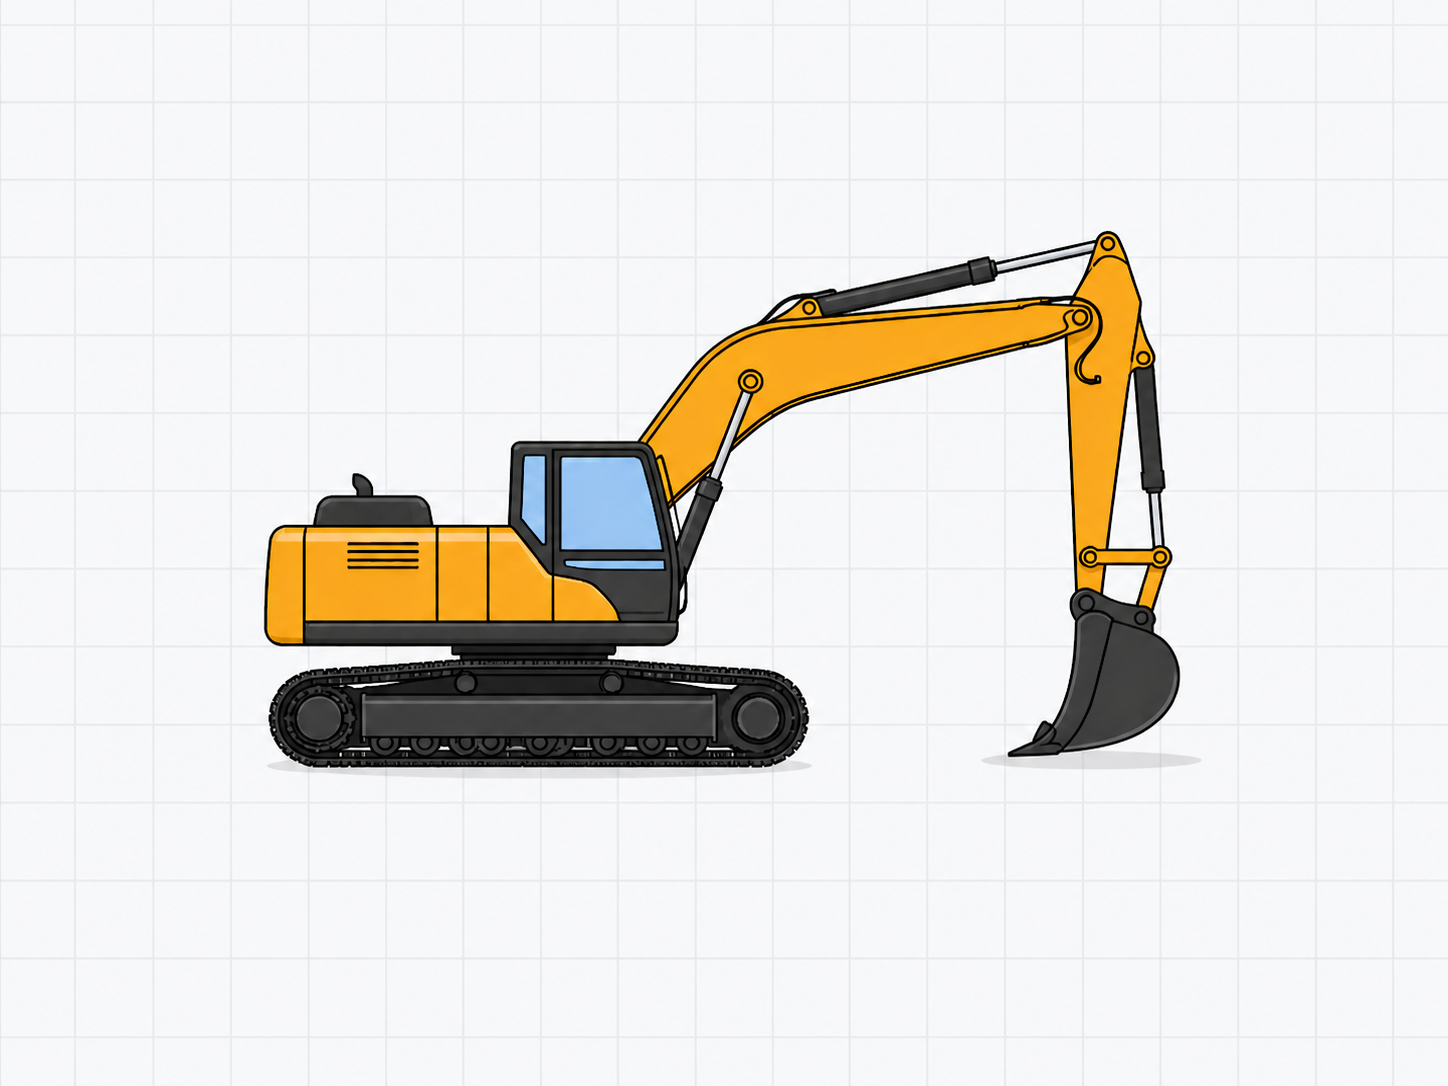
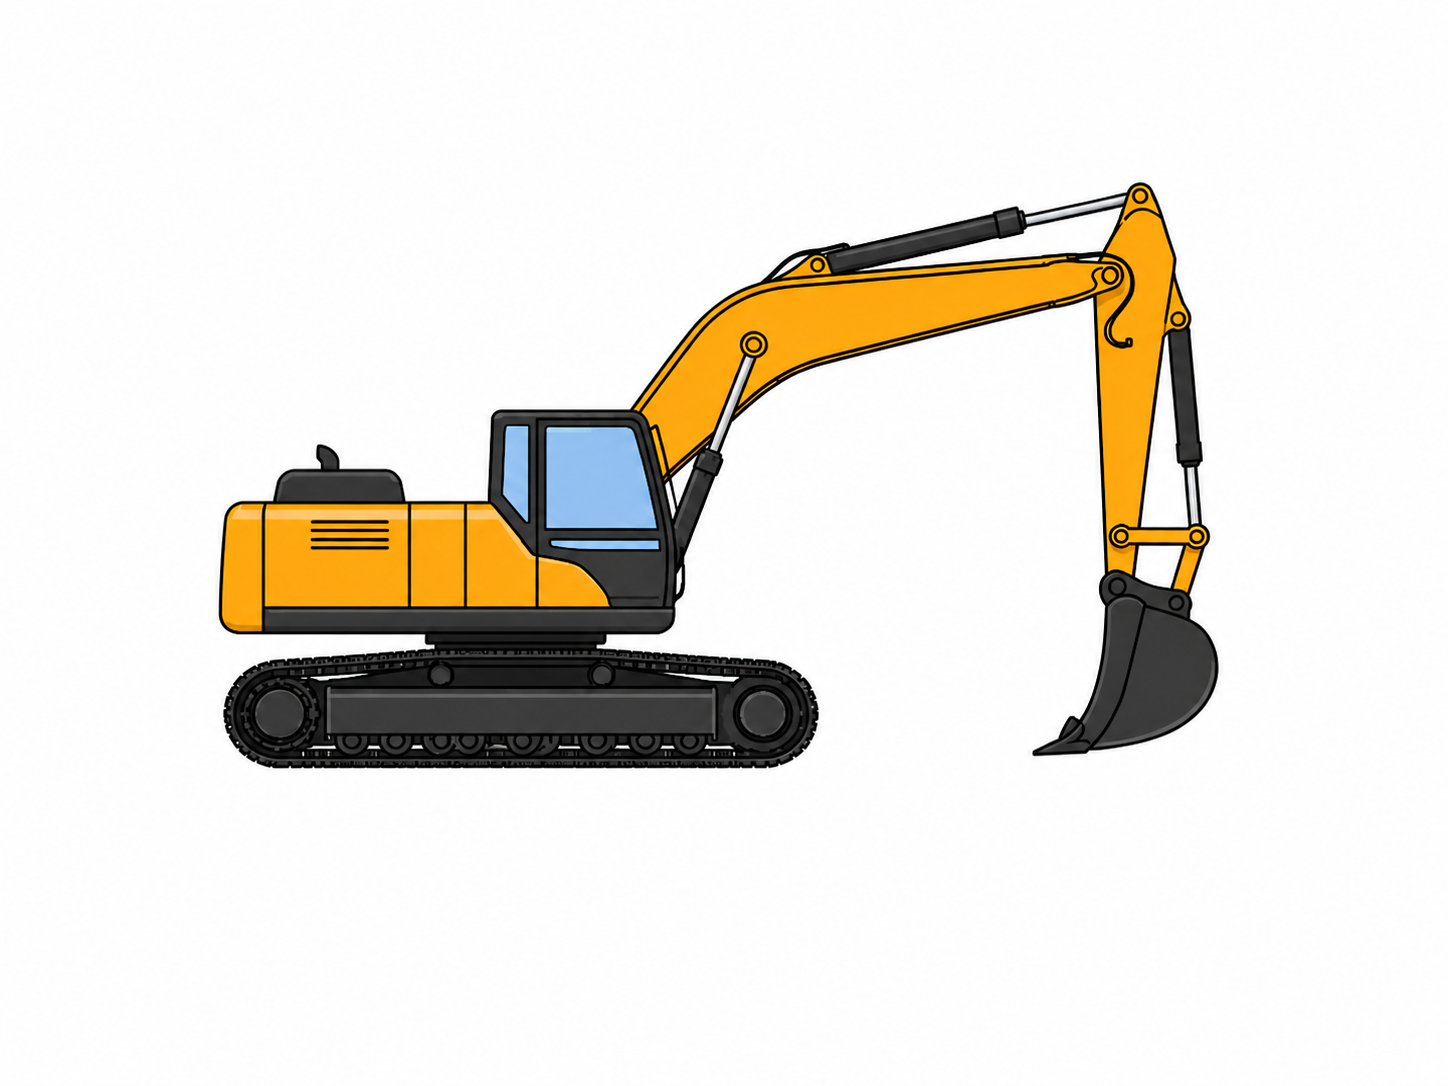
Skisse: PNG for gravemaskin/lastebil i plan, oppdaterte symbol; UI-rydding

Changed region(s): [[0.1243, 0.1519, 0.8391, 0.7293]]

diff --git a/components/sketches/TrenchPlanner.tsx b/components/sketches/TrenchPlanner.tsx
@@ -3,7 +3,16 @@
 import { useEffect, useMemo, useRef, useState, type ReactNode } from "react";
 import { Button } from "@/components/ui/button";
 import { CanvasObject, type CanvasObjectData } from "@/components/sketches/planner/CanvasObject";
-import { EXCAVATOR_SIDE_PNG, type ObjectType } from "@/components/sketches/planner/AssetIcons";
+import {
+  EXCAVATOR_SIDE_ASPECT,
+  EXCAVATOR_SIDE_LIGHT_BG_KNOCKOUT,
+  EXCAVATOR_SIDE_PNG,
+  EXCAVATOR_SIDE_PRESET_HEIGHT,
+  EXCAVATOR_SIDE_PRESET_WIDTH,
+  EXCAVATOR_TOP_PNG,
+  TRUCK_TOP_PNG,
+  type ObjectType
+} from "@/components/sketches/planner/AssetIcons";
 import { MeasurementLine, type MeasurementView } from "@/components/sketches/planner/MeasurementLine";
 import { ObjectToolbar } from "@/components/sketches/planner/ObjectToolbar";
 import { useCanvasHistory } from "@/components/sketches/planner/useCanvasHistory";
@@ -16,6 +25,13 @@ import {
 } from "@/components/sketches/planner/trenchCrossGeometry";
 
 type TabKey = "cross" | "plan";
+
+const EXCAVATOR_TOP_PRESET_WIDTH = 160;
+const EXCAVATOR_TOP_PRESET_HEIGHT = 340;
+const EXCAVATOR_TOP_ASPECT = EXCAVATOR_TOP_PRESET_HEIGHT / EXCAVATOR_TOP_PRESET_WIDTH;
+const TRUCK_TOP_PRESET_WIDTH = 520;
+const TRUCK_TOP_PRESET_HEIGHT = 130;
+const TRUCK_TOP_ASPECT = TRUCK_TOP_PRESET_HEIGHT / TRUCK_TOP_PRESET_WIDTH;
 /** Justering av grøftevegg: V = venstre, H = høyre, begge = V + H */
 type TrenchWallEditScope = "begge" | "venstre" | "hoyre";
 type Selection = { kind: "object" | "measurement"; id: string } | null;
@@ -70,9 +86,9 @@ const presets: Record<ObjectType, Omit<CanvasObjectData, "id" | "x" | "y" | "rot
     meta: { slopeAngleLeftDeg: 45, slopeAngleRightDeg: 45 }
   }, // ca 10 m toppbredde, 4 m dybde
   trenchPlan: { type: "trenchPlan", width: 750, height: 130 }, // 15 m lengde, 2.6 m korridor
-  excavatorSide: { type: "excavatorSide", width: 575, height: 250 }, // 11,5 × 5 m (1 rute = 1 m)
-  excavatorTop: { type: "excavatorTop", width: 160, height: 340 }, // ca 3.2 x 6.8 m
-  truckTop: { type: "truckTop", width: 520, height: 130 }, // ca 10.4 x 2.6 m
+  excavatorSide: { type: "excavatorSide", width: EXCAVATOR_SIDE_PRESET_WIDTH, height: EXCAVATOR_SIDE_PRESET_HEIGHT },
+  excavatorTop: { type: "excavatorTop", width: EXCAVATOR_TOP_PRESET_WIDTH, height: EXCAVATOR_TOP_PRESET_HEIGHT },
+  truckTop: { type: "truckTop", width: TRUCK_TOP_PRESET_WIDTH, height: TRUCK_TOP_PRESET_HEIGHT },
   spoilPile: { type: "spoilPile", width: 260, height: 120 },
   spoilPileLong: { type: "spoilPileLong", width: 360, height: 90 },
   ladder: { type: "ladder", width: 60, height: 220 },
@@ -215,7 +231,11 @@ function resolveMeasurements(state: CanvasState): MeasurementView[] {
 
 function buildPrintableSvg(state: CanvasState, assetOrigin = "") {
   const measurements = resolveMeasurements(state);
-  const excavatorImgSrc = `${assetOrigin}${EXCAVATOR_SIDE_PNG}`;
+  const excavatorSideImgSrc = `${assetOrigin}${EXCAVATOR_SIDE_PNG}`;
+  const excavatorTopImgSrc = `${assetOrigin}${EXCAVATOR_TOP_PNG}`;
+  const truckTopImgSrc = `${assetOrigin}${TRUCK_TOP_PNG}`;
+  const rasterKnockoutId = `raster-print-knock-${Math.random().toString(36).slice(2, 10)}`;
+  const rasterKnockoutValues = `1 0 0 0 0  0 1 0 0 0  0 0 1 0 0  -1 -1 -1 0 ${EXCAVATOR_SIDE_LIGHT_BG_KNOCKOUT}`;
   const printObject = (o: CanvasObjectData) => {
     switch (o.type) {
       case "trenchCross": {
@@ -237,16 +257,11 @@ function buildPrintableSvg(state: CanvasState, assetOrigin = "") {
                 ${markerLines}`;
       }
       case "excavatorSide":
-        return `<image href="${excavatorImgSrc}" xlink:href="${excavatorImgSrc}" x="${o.x}" y="${o.y}" width="${o.width}" height="${o.height}" preserveAspectRatio="xMidYMid meet" />`;
+        return `<image href="${excavatorSideImgSrc}" xlink:href="${excavatorSideImgSrc}" filter="url(#${rasterKnockoutId})" x="${o.x}" y="${o.y}" width="${o.width}" height="${o.height}" preserveAspectRatio="xMidYMid meet" />`;
       case "excavatorTop":
-        return `<rect x="${o.x + o.width * 0.04}" y="${o.y + o.height * 0.08}" width="${o.width * 0.2}" height="${o.height * 0.84}" fill="#111827" />
-                <rect x="${o.x + o.width * 0.62}" y="${o.y + o.height * 0.08}" width="${o.width * 0.2}" height="${o.height * 0.84}" fill="#111827" />
-                <rect x="${o.x + o.width * 0.24}" y="${o.y + o.height * 0.18}" width="${o.width * 0.42}" height="${o.height * 0.64}" fill="#f59e0b" stroke="#111827" stroke-width="2" />
-                <line x1="${o.x + o.width * 0.28}" y1="${o.y + o.height * 0.28}" x2="${o.x + o.width * 0.6}" y2="${o.y + o.height * 0.28}" stroke="#fff" stroke-width="1.7" />`;
+        return `<image href="${excavatorTopImgSrc}" xlink:href="${excavatorTopImgSrc}" filter="url(#${rasterKnockoutId})" x="${o.x}" y="${o.y}" width="${o.width}" height="${o.height}" preserveAspectRatio="xMidYMid meet" />`;
       case "truckTop":
-        return `<rect x="${o.x}" y="${o.y + o.height * 0.16}" width="${o.width * 0.68}" height="${o.height * 0.68}" fill="#60a5fa" stroke="#111827" stroke-width="2" />
-                <rect x="${o.x + o.width * 0.7}" y="${o.y + o.height * 0.24}" width="${o.width * 0.24}" height="${o.height * 0.52}" fill="#fb923c" stroke="#7c2d12" stroke-width="2" />
-                <line x1="${o.x + o.width * 0.04}" y1="${o.y + o.height * 0.26}" x2="${o.x + o.width * 0.62}" y2="${o.y + o.height * 0.26}" stroke="#fff" stroke-width="1.6" />`;
+        return `<image href="${truckTopImgSrc}" xlink:href="${truckTopImgSrc}" filter="url(#${rasterKnockoutId})" x="${o.x}" y="${o.y}" width="${o.width}" height="${o.height}" preserveAspectRatio="xMidYMid meet" />`;
       case "spoilPile":
         return `<ellipse cx="${o.x + o.width / 2}" cy="${o.y + o.height * 0.72}" rx="${o.width * 0.48}" ry="${o.height * 0.3}" fill="#b08968" stroke="#3f3f46" stroke-width="2" />
                 <ellipse cx="${o.x + o.width / 2}" cy="${o.y + o.height * 0.62}" rx="${o.width * 0.35}" ry="${o.height * 0.16}" fill="#ffffff33" />`;
@@ -309,6 +324,11 @@ function buildPrintableSvg(state: CanvasState, assetOrigin = "") {
 
   return `
     <svg xmlns="http://www.w3.org/2000/svg" xmlns:xlink="http://www.w3.org/1999/xlink" viewBox="0 0 ${VIEW_W} ${VIEW_H}" width="100%" style="border:1px solid #cbd5e1;border-radius:8px;background:#f8fafc;">
+      <defs>
+        <filter id="${rasterKnockoutId}" x="0" y="0" width="100%" height="100%" color-interpolation-filters="sRGB">
+          <feColorMatrix in="SourceGraphic" type="matrix" values="${rasterKnockoutValues}" />
+        </filter>
+      </defs>
       ${gridMarkup}
       ${objectMarkup}
       ${measurementMarkup}
@@ -606,20 +626,6 @@ export function TrenchPlanner() {
     }));
   };
 
-  const reorderSelected = (dir: "backward" | "forward") => {
-    if (!selectedObject) return;
-    setCurrent((prev) => {
-      const idx = prev.objects.findIndex((o) => o.id === selectedObject.id);
-      if (idx < 0) return prev;
-      const target = dir === "forward" ? idx + 1 : idx - 1;
-      if (target < 0 || target >= prev.objects.length) return prev;
-      const list = [...prev.objects];
-      const [item] = list.splice(idx, 1);
-      list.splice(target, 0, item);
-      return { ...prev, objects: list };
-    });
-  };
-
   const clearActiveCanvas = () => {
     if (!window.confirm("Er du sikker på at du vil tømme aktiv arbeidsflate?")) return;
     setCurrent({ objects: [], measurements: [] });
@@ -646,6 +652,8 @@ export function TrenchPlanner() {
   const showSafetyMeasures = activeTab === "cross" && trenchDepthMeters > 2;
   const selectedPlanTrench = selectedObject?.type === "trenchPlan" ? current.present.objects.find((o) => o.id === selectedObject.id) : null;
   const selectedSpoilLong = selectedObject?.type === "spoilPileLong" ? current.present.objects.find((o) => o.id === selectedObject.id) : null;
+  const selectedExcavatorTop = selectedObject?.type === "excavatorTop" ? current.present.objects.find((o) => o.id === selectedObject.id) : null;
+  const selectedTruckTop = selectedObject?.type === "truckTop" ? current.present.objects.find((o) => o.id === selectedObject.id) : null;
 
   const patchTrenchWallAnglesFor = (objectId: string, patch: { leftDeg?: number; rightDeg?: number }) => {
     setCurrent((prev) => {
@@ -681,6 +689,51 @@ export function TrenchPlanner() {
         if (o.id !== selectedObject.id) return o;
         const center = o.x + o.width / 2;
         return { ...o, width: nextWidth, x: center - nextWidth / 2 };
+      })
+    }));
+  };
+
+  const updateExcavatorSideWidth = (width: number) => {
+    if (!selectedObject || selectedObject.type !== "excavatorSide") return;
+    const nextW = Math.max(180, Math.min(1400, Math.round(width / 5) * 5));
+    const nextH = Math.round(nextW * EXCAVATOR_SIDE_ASPECT);
+    setCurrent((prev) => ({
+      ...prev,
+      objects: prev.objects.map((o) => {
+        if (o.id !== selectedObject.id) return o;
+        const cx = o.x + o.width / 2;
+        const cy = o.y + o.height / 2;
+        return { ...o, width: nextW, height: nextH, x: cx - nextW / 2, y: cy - nextH / 2 };
+      })
+    }));
+  };
+
+  const updateExcavatorTopWidth = (width: number) => {
+    if (!selectedObject || selectedObject.type !== "excavatorTop") return;
+    const nextW = Math.max(80, Math.min(420, Math.round(width / 5) * 5));
+    const nextH = Math.round(nextW * EXCAVATOR_TOP_ASPECT);
+    setCurrent((prev) => ({
+      ...prev,
+      objects: prev.objects.map((o) => {
+        if (o.id !== selectedObject.id) return o;
+        const cx = o.x + o.width / 2;
+        const cy = o.y + o.height / 2;
+        return { ...o, width: nextW, height: nextH, x: cx - nextW / 2, y: cy - nextH / 2 };
+      })
+    }));
+  };
+
+  const updateTruckTopWidth = (width: number) => {
+    if (!selectedObject || selectedObject.type !== "truckTop") return;
+    const nextW = Math.max(200, Math.min(900, Math.round(width / 5) * 5));
+    const nextH = Math.round(nextW * TRUCK_TOP_ASPECT);
+    setCurrent((prev) => ({
+      ...prev,
+      objects: prev.objects.map((o) => {
+        if (o.id !== selectedObject.id) return o;
+        const cx = o.x + o.width / 2;
+        const cy = o.y + o.height / 2;
+        return { ...o, width: nextW, height: nextH, x: cx - nextW / 2, y: cy - nextH / 2 };
       })
     }));
   };
@@ -1059,8 +1112,27 @@ export function TrenchPlanner() {
             <>
               <p className="text-xs text-slate-600">
                 Vel eit symbol og trykk <strong>Innstillingar</strong> på verktøylinja over symbolet for grøfteveggar (V/H),{" "}
-                <strong>helning</strong> på stige, og <strong>bredde</strong> på spunt eller grøftekasse. Kvar stige og kvar grøft har eigne verdiar.
+                <strong>helning</strong> på stige, og <strong>bredde</strong> på spunt eller grøftekasse. Kvar stige og kvar grøft har eigne verdiar.{" "}
+                <strong>Skalering</strong> av gravemaskin (side) finn du under når maskina er valt.
               </p>
+              {selectedObject?.type === "excavatorSide" && (
+                <div className="space-y-2 rounded-md border border-slate-200 bg-slate-50 p-2">
+                  <div className="text-xs font-medium text-slate-800">Gravemaskin (side) – skalering</div>
+                  <input
+                    type="range"
+                    min={180}
+                    max={1400}
+                    step={5}
+                    value={selectedObject.width}
+                    onChange={(e) => updateExcavatorSideWidth(Number(e.target.value))}
+                    className="w-full"
+                  />
+                  <div className="text-[11px] text-slate-600">
+                    {(selectedObject.width / GRID_UNIT).toFixed(1).replace(".", ",")} m ×{" "}
+                    {(selectedObject.height / GRID_UNIT).toFixed(1).replace(".", ",")} m (proporsjonar bevarte)
+                  </div>
+                </div>
+              )}
               {showSafetyMeasures && (
                 <div className="rounded-md border border-amber-300 bg-amber-50 p-2 text-xs text-amber-900">
                   Grøftedybde over 2,0 m: vurder spunt eller grøftekasse.
@@ -1108,6 +1180,42 @@ export function TrenchPlanner() {
                     className="w-full"
                   />
                   <div className="text-xs text-slate-600">{(selectedSpoilLong.width / GRID_UNIT).toFixed(1).replace(".", ",")} m</div>
+                </div>
+              )}
+              {selectedExcavatorTop && (
+                <div className="space-y-2 rounded-md border border-slate-200 bg-slate-50 p-2">
+                  <div className="text-xs font-medium text-slate-800">Gravemaskin (ovenfra) – skalering</div>
+                  <input
+                    type="range"
+                    min={80}
+                    max={420}
+                    step={5}
+                    value={selectedExcavatorTop.width}
+                    onChange={(e) => updateExcavatorTopWidth(Number(e.target.value))}
+                    className="w-full"
+                  />
+                  <div className="text-[11px] text-slate-600">
+                    {(selectedExcavatorTop.width / GRID_UNIT).toFixed(1).replace(".", ",")} m ×{" "}
+                    {(selectedExcavatorTop.height / GRID_UNIT).toFixed(1).replace(".", ",")} m (proporsjonar bevarte)
+                  </div>
+                </div>
+              )}
+              {selectedTruckTop && (
+                <div className="space-y-2 rounded-md border border-slate-200 bg-slate-50 p-2">
+                  <div className="text-xs font-medium text-slate-800">Lastebil (ovenfra) – skalering</div>
+                  <input
+                    type="range"
+                    min={200}
+                    max={900}
+                    step={5}
+                    value={selectedTruckTop.width}
+                    onChange={(e) => updateTruckTopWidth(Number(e.target.value))}
+                    className="w-full"
+                  />
+                  <div className="text-[11px] text-slate-600">
+                    {(selectedTruckTop.width / GRID_UNIT).toFixed(1).replace(".", ",")} m ×{" "}
+                    {(selectedTruckTop.height / GRID_UNIT).toFixed(1).replace(".", ",")} m (proporsjonar bevarte)
+                  </div>
                 </div>
               )}
               <div className="text-xs text-slate-500">Tips: velg et grøfte- eller masse-symbol for å justere det spesifikke objektet når du har flere.</div>
@@ -1169,8 +1277,6 @@ export function TrenchPlanner() {
               onDelete={deleteSelected}
               onDuplicate={duplicateSelected}
               onRotate={rotateSelected}
-              onSendBackward={() => reorderSelected("backward")}
-              onBringForward={() => reorderSelected("forward")}
               rotateLabel={activeTab === "cross" && selectedObject?.type === "excavatorSide" ? "Speilvend" : "Roter 90°"}
               menu={activeTab === "cross" ? renderSymbolSettingsMenu() : undefined}
             />

diff --git a/components/sketches/planner/AssetIcons.tsx b/components/sketches/planner/AssetIcons.tsx
@@ -1,6 +1,7 @@
 "use client";
 
 import type { ReactNode } from "react";
+import { useId } from "react";
 import { getTrenchCrossCorners } from "@/components/sketches/planner/trenchCrossGeometry";
 
 export type ObjectType =
@@ -18,8 +19,45 @@ export type ObjectType =
   | "pipe"
   | "escapeRoute";
 
-/** Bytt ut denne fila i `public/skisse/` med din eigen PNG (gjerne med gjennomsiktig bakgrunn). */
+/** Bytt ut filene i `public/skisse/` med dine eigne PNG (gjerne med gjennomsiktig bakgrunn). */
 export const EXCAVATOR_SIDE_PNG = "/skisse/excavator-side.png";
+export const EXCAVATOR_TOP_PNG = "/skisse/excavator-top.png";
+export const TRUCK_TOP_PNG = "/skisse/truck-top.png";
+
+/** Standard mål for side-gravemaskin (50 px = 1 m). Brukes til størrelseslider og fast proporsjon. */
+export const EXCAVATOR_SIDE_PRESET_WIDTH = 575;
+export const EXCAVATOR_SIDE_PRESET_HEIGHT = 250;
+export const EXCAVATOR_SIDE_ASPECT = EXCAVATOR_SIDE_PRESET_HEIGHT / EXCAVATOR_SIDE_PRESET_WIDTH;
+
+/**
+ * SVG filter: A' = k − (R+G+B) i normalisert sRGB. Gjer kvit/lys grå (inkl. «bake-in» rutenett) gjennomsiktig;
+ * mettede fargar på køyretøy blir verande. Senk til ~2.68 om lyse flater blir for gjennomsiktige.
+ */
+export const EXCAVATOR_SIDE_LIGHT_BG_KNOCKOUT = 2.72;
+
+function RasterAssetIcon(props: IconProps & { href: string }) {
+  const { href, x, y, width, height, ...frameRest } = props;
+  const filterId = `raster-knock-${useId().replace(/:/g, "")}`;
+  const knockoutValues = `1 0 0 0 0  0 1 0 0 0  0 0 1 0 0  -1 -1 -1 0 ${EXCAVATOR_SIDE_LIGHT_BG_KNOCKOUT}`;
+  return (
+    <IconFrame {...frameRest} x={x} y={y} width={width} height={height} withShadow={false}>
+      <defs>
+        <filter id={filterId} x="0" y="0" width="100%" height="100%" colorInterpolationFilters="sRGB">
+          <feColorMatrix in="SourceGraphic" type="matrix" values={knockoutValues} />
+        </filter>
+      </defs>
+      <image
+        href={href}
+        x={x}
+        y={y}
+        width={width}
+        height={height}
+        preserveAspectRatio="xMidYMid meet"
+        filter={`url(#${filterId})`}
+      />
+    </IconFrame>
+  );
+}
 
 type IconProps = {
   x: number;
@@ -96,45 +134,15 @@ export function TrenchPlanIcon(props: IconProps) {
 }
 
 export function ExcavatorSideIcon(props: IconProps) {
-  const { x, y, width, height } = props;
-  return (
-    <IconFrame {...props}>
-      <image
-        href={EXCAVATOR_SIDE_PNG}
-        x={x}
-        y={y}
-        width={width}
-        height={height}
-        preserveAspectRatio="xMidYMid meet"
-      />
-    </IconFrame>
-  );
+  return <RasterAssetIcon {...props} href={EXCAVATOR_SIDE_PNG} />;
 }
 
 export function ExcavatorTopIcon(props: IconProps) {
-  const { x, y, width, height } = props;
-  return (
-    <IconFrame {...props}>
-      <rect x={x + width * 0.04} y={y + height * 0.08} width={width * 0.2} height={height * 0.84} fill="#111827" />
-      <rect x={x + width * 0.62} y={y + height * 0.08} width={width * 0.2} height={height * 0.84} fill="#111827" />
-      <rect x={x + width * 0.24} y={y + height * 0.18} width={width * 0.42} height={height * 0.64} fill="#f59e0b" stroke="#111827" strokeWidth={2} />
-      <rect x={x + width * 0.34} y={y + height * 0.26} width={width * 0.16} height={height * 0.48} fill="#bfdbfe" stroke="#1f2937" strokeWidth={1.5} />
-      <line x1={x + width * 0.28} y1={y + height * 0.28} x2={x + width * 0.6} y2={y + height * 0.28} stroke="#fff" strokeWidth={1.7} />
-      <polygon points={`${x + width * 0.9},${y + height * 0.5} ${x + width * 0.76},${y + height * 0.4} ${x + width * 0.76},${y + height * 0.6}`} fill="#111827" />
-    </IconFrame>
-  );
+  return <RasterAssetIcon {...props} href={EXCAVATOR_TOP_PNG} />;
 }
 
 export function TruckTopIcon(props: IconProps) {
-  const { x, y, width, height } = props;
-  return (
-    <IconFrame {...props}>
-      <rect x={x} y={y + height * 0.16} width={width * 0.68} height={height * 0.68} fill="#60a5fa" stroke="#111827" strokeWidth={2} />
-      <rect x={x + width * 0.7} y={y + height * 0.24} width={width * 0.24} height={height * 0.52} fill="#fb923c" stroke="#7c2d12" strokeWidth={2} />
-      <rect x={x + width * 0.74} y={y + height * 0.32} width={width * 0.13} height={height * 0.36} fill="#bfdbfe" stroke="#1f2937" strokeWidth={1.2} />
-      <line x1={x + width * 0.04} y1={y + height * 0.26} x2={x + width * 0.62} y2={y + height * 0.26} stroke="#fff" strokeWidth={1.6} />
-    </IconFrame>
-  );
+  return <RasterAssetIcon {...props} href={TRUCK_TOP_PNG} />;
 }
 
 export function SpoilPileIcon(props: IconProps) {

diff --git a/components/sketches/planner/ObjectToolbar.tsx b/components/sketches/planner/ObjectToolbar.tsx
@@ -9,8 +9,6 @@ type Props = {
   onDelete: () => void;
   onDuplicate: () => void;
   onRotate: () => void;
-  onSendBackward: () => void;
-  onBringForward: () => void;
   rotateLabel?: string;
   /** Ekstra innhald vist under knapperekka når «Innstillingar» er open */
   menu?: ReactNode;
@@ -23,8 +21,6 @@ export function ObjectToolbar({
   onDelete,
   onDuplicate,
   onRotate,
-  onSendBackward,
-  onBringForward,
   rotateLabel = "Roter 90°",
   menu,
   menuTitle = "Innstillingar"
@@ -45,12 +41,6 @@ export function ObjectToolbar({
         </Button>
         <Button size="sm" variant="outline" onClick={onRotate}>
           {rotateLabel}
-        </Button>
-        <Button size="sm" variant="outline" onClick={onSendBackward}>
-          Bakover
-        </Button>
-        <Button size="sm" variant="outline" onClick={onBringForward}>
-          Fremover
         </Button>
         {menu && (
           <Button size="sm" variant={open ? "default" : "secondary"} type="button" onClick={() => setOpen((v) => !v)}>
